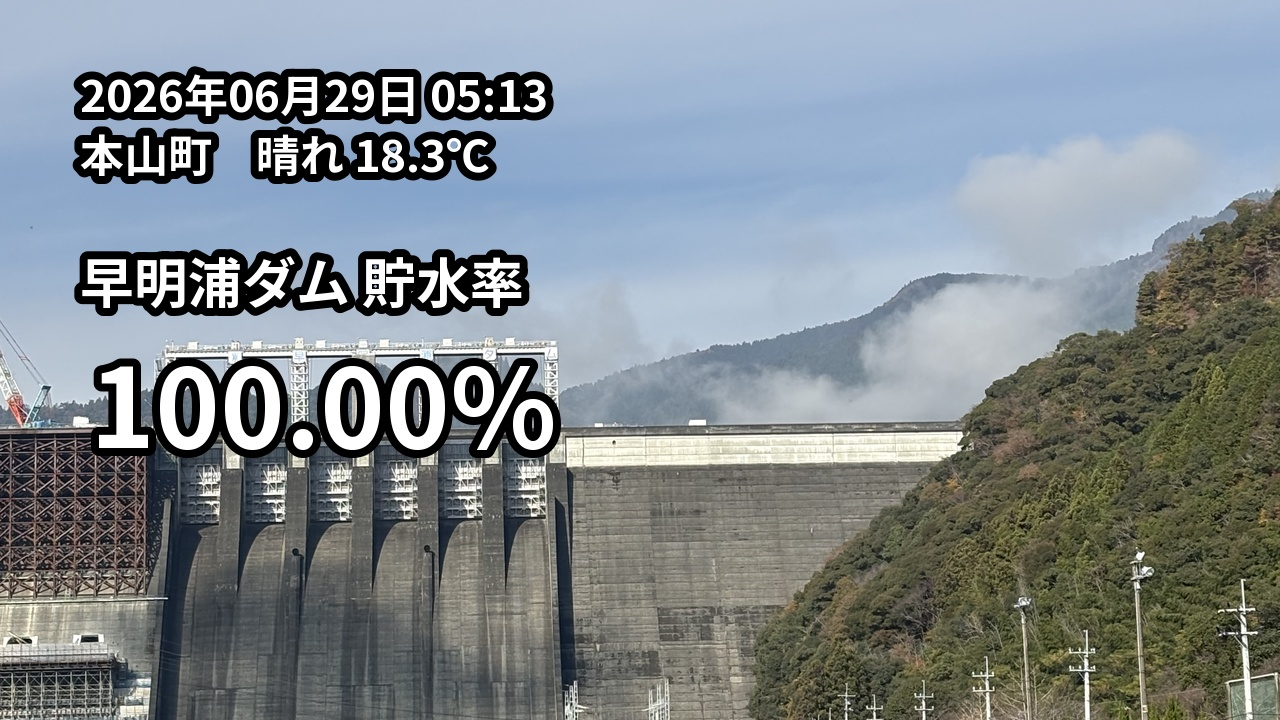
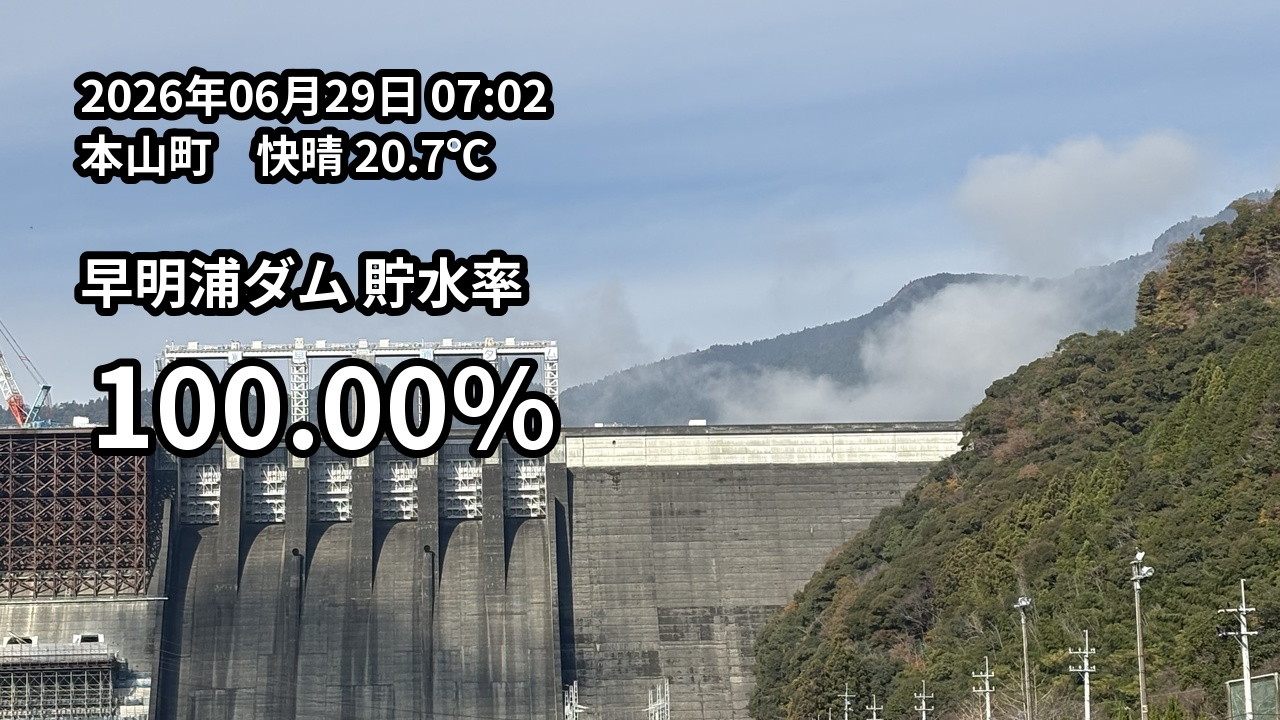
Update daily image

Changed region(s): [[0.1875, 0.1528, 0.375, 0.275], [0.3438, 0.0917, 0.4375, 0.1833]]

diff --git a/index.html b/index.html
@@ -10,6 +10,6 @@
   </style>
 </head>
 <body>
-  <img src="result.jpg?v=202606290513" alt="早明浦ダム 貯水率" />
+  <img src="result.jpg?v=202606290702" alt="早明浦ダム 貯水率" />
 </body>
 </html>
